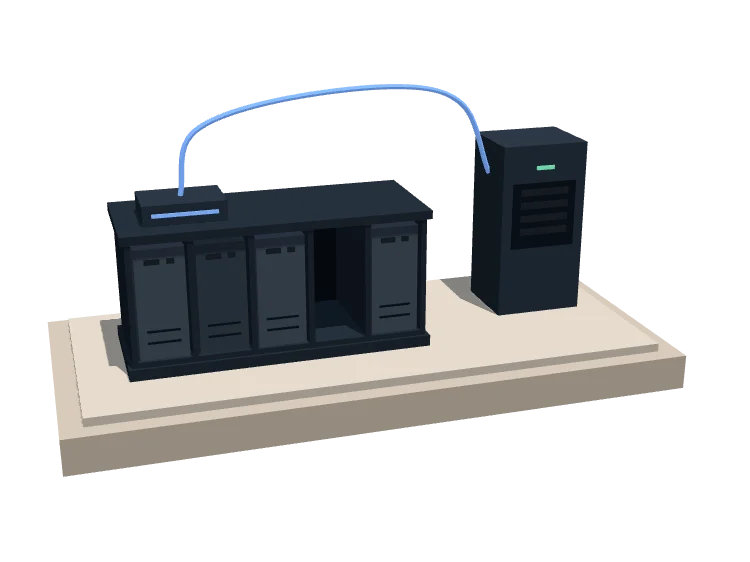
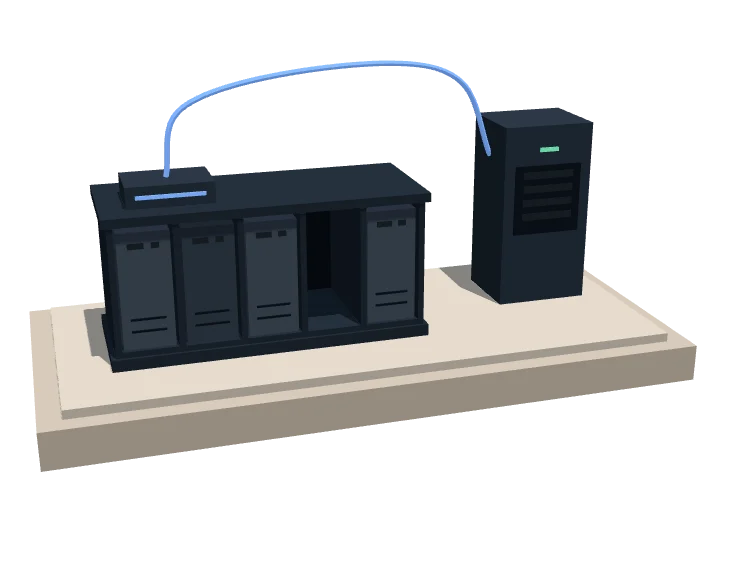
Landing: frame the fleet scene a little closer, and re-render its stills
Claude-Session: https://claude.ai/code/session_01VQrhjiQR79MBpaRz4Sj7x2

Changed region(s): [[0.0307, 0.0907, 0.9507, 0.847]]

diff --git a/apps/landing/src/scripts/scenes/fleet.js b/apps/landing/src/scripts/scenes/fleet.js
@@ -21,7 +21,7 @@ const SEG = 64, RADIAL = 6;
 const glowing = (m, c, k) => { m.color.set(c); m.emissive.set(c).multiplyScalar(k); };
 
 export default {
-  view: { look: [0.12, 0.6, 0.1], dist: 7.3, rise: 0.36, yaw: -0.3, aspect: 4 / 3, fov: 28 },
+  view: { look: [0.15, 0.62, 0.1], dist: 7.3, rise: 0.36, yaw: -0.3, aspect: 4 / 3, fov: 28 },
   shadow: { left: -2.8, right: 2.8, top: 2.4, bottom: -1.4 },
   duration: 2200,
   build(scene, { accent, night }) {
